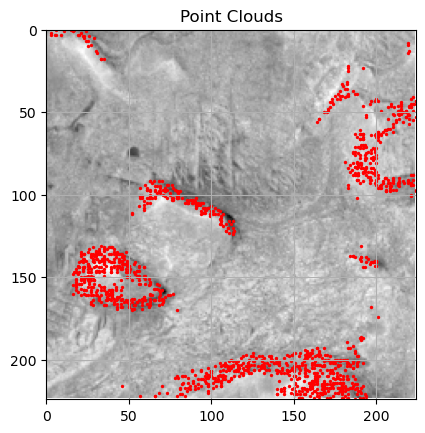
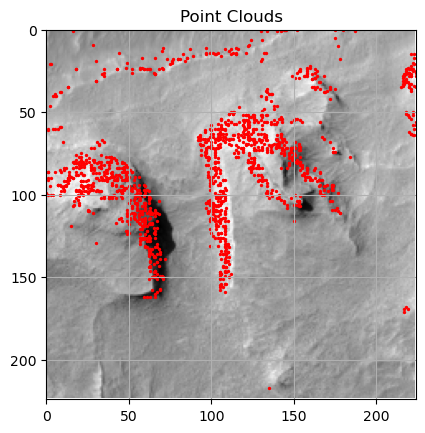
PKPD Results (Robustness Metric, yet to be done)

diff --git a/Engine/Anasthesia.py b/Engine/Anasthesia.py
@@ -111,8 +111,14 @@ class AnasthesiaPKPD:
         (dynA,dynB)=AnasthesiaPKPD.getDynamics()
         A=AnasthesiaPKPD.createMatrix(dynA,dynB,'.',0.01)
 
+        print(">> STATUS: Computing Reachable Sets . . .")
+        time_taken=time.time()
         rs=Split(A,Er,initialSet,T)
         (reachORS,reachRS)=rs.getReachableSetAllList()
+        time_taken=time.time()-time_taken
+        print("\tTime Taken: ",time_taken)
+        print(">> STATUS: Reachable Sets Computed!")
+        #exit(0)
 
         VisualizePKPD.vizC1C2(reachRS,reachORS)
 
@@ -177,7 +183,71 @@ class AnasthesiaPKPD:
 
         VisualizePKPD.vizCe(reachRS,reachORS)
 
+    def getCellOrder():
+        (A,B)=AnasthesiaPKPD.getDynamics()
+        A_club=AnasthesiaPKPD.createMatrix(A,B,'.',0.01)
+        print(">> STATUS: Applying Cell Ordering Algorithm . . .")
+        time_taken=time.time()
+        projMat=np.zeros(A_club.shape)
+        projMat[1][1]=1
+        projMat[0][0]=0
+        projMat[2][2]=0
+        A_club_proj=np.matmul(projMat,A_club)
+        cellOrder=OrdUnc(A_club_proj).getOrder()
+        time_taken=time.time()-time_taken
+        print("\tTime Taken: ",time_taken)
+        print(">> STATUS: Applying Cell Ordering Algorithm . . .")
+        print(cellOrder)
+
+    def getTopBotErrors():
+        '''
+        Based on the ouput we got from `self.getCellOrder()`,
+        some perturbation of the matrix were picked.
+        '''
+        p=2
+
+        Er_top={
+        (1,0): [1-(p/100),1+(p/100)],
+        (1,1): [1-(p/100),1+(p/100)]
+        }
+
+        Er_bot={
+        (2,0): [1-(p/100),1+(p/100)],
+        (2,2): [1-(p/100),1+(p/100)]
+        }
+
+        return Er_top,Er_bot
+
+    def getReachSetsTopBot():
+        '''
+        Based on Errors obtained from cell-ordering algorithm, we
+        compare the top and the bottom cells
+        '''
+        (Er_top,Er_bot)=AnasthesiaPKPD.getTopBotErrors()
+        C=[0,0,0,0,0]
+        V=np.array([
+        [1,0,0,0,0],
+        [0,1,0,0,0],
+        [0,0,1,0,0],
+        [0,0,0,1,0],
+        [0,0,0,0,1],
+        ])
+        P=[(2,4),(4,6),(4,6),(3,5),(0,10)]
+        initialSet=(C,V,P)
+        T=20
+
+        (dynA,dynB)=AnasthesiaPKPD.getDynamics()
+        A=AnasthesiaPKPD.createMatrix(dynA,dynB,'.',0.01)
+
+        rsTop=Split(A,Er_top,initialSet,T)
+        (reachORSTop,reachRSTop)=rsTop.getReachableSetAllList()
+
+        rsBot=Split(A,Er_bot,initialSet,T)
+        (reachORSBot,reachRSBot)=rsBot.getReachableSetAllList()
+
+        VisualizePKPD.vizComp(reachORSTop,reachORSBot)
 
 
-if True:
-    AnasthesiaPKPD.getReachSetC1C2()
+
+if False:
+    AnasthesiaPKPD.getCellOrder()

diff --git a/Engine/VisualizePKPD.py b/Engine/VisualizePKPD.py
@@ -449,3 +449,40 @@ class VisualizePKPD:
         #plt.legend()
         plt.savefig(PKPD_RESULTS+"/"+fname, dpi=100, bbox_inches='tight')
         plt.close()
+
+    def vizComp(RS_Top,RS_bot,fname="viz_compare"):
+        th1=1
+        th2=2
+
+        RS_XY_List=[]
+        ORS_XY_List=[]
+
+        plt.axes()
+        plt.autoscale(enable=True, axis='both', tight=False)
+        plt.xlabel("Time")
+        plt.ylabel("C1")
+        plt.xlim((-1,21))
+        plt.ylim((-2,12))
+
+        plt.plot([-4, 25], [0, 0], color='r', linestyle='--', linewidth=1)
+        plt.plot([-4, 25], [10, 10], color='r', linestyle='--', linewidth=1)
+        #plt.plot([-4, 12], [10, 10], color='r', linestyle='--', linewidth=1)
+        #plt.plot([0, 0], [-2, 12], color='r', linestyle='--', linewidth=1)
+        #plt.plot([10, 10], [-2, 12], color='r', linestyle='--', linewidth=1)
+
+        ct=0
+        for rs in RS_Top:
+            (X,Y)=VisualizePKPD.getPlotsLineFine(rs,th1,th2)
+            plt.plot([ct,ct],[min(X),max(X)],color='b', linestyle='-', linewidth=10)
+            ct=ct+1
+
+        ct=0
+        for rs in RS_bot:
+            (X,Y)=VisualizePKPD.getPlotsLineFine(rs,th1,th2)
+            plt.plot([ct,ct],[min(X),max(X)],color='cyan', linestyle='-', linewidth=4)
+            ct=ct+1
+
+
+        #plt.legend()
+        plt.savefig(PKPD_RESULTS+"/"+fname, dpi=100, bbox_inches='tight')
+        plt.close()

diff --git a/Engine/MarsRover.py b/Engine/MarsRover.py
@@ -78,7 +78,13 @@ class Rover:
             path_mpc.append((x,y))
         VisualizeMarsRover.vizMarsTrajMPC(self.obs,self.image,path,spline_path,path_mpc)
 
+        print(">> STATUS: Computing Reachable Sets . . .")
+        time_taken=time.time()
         rsList=BicycleModel.getReachSets(X, Y, yawList, V, D, A)
+        time_taken=time.time()-time_taken
+        print("\tTime Taken: ",time_taken)
+        print(">> STATUS: Reachable Sets Computed!")
+        #exit(0)
         VisualizeMarsRover.vizMarsTrajRS(self.obs,self.image,spline_path,path_mpc,path,rsList)
 
     def getReachSetsTopBot(self):
@@ -144,7 +150,12 @@ class Rover:
         v=0.1
         phi=0.1
         delta=0.1
+        print(">> STATUS: Computing Cell Order . . .")
+        time_taken=time.time()
         cellOrder=BicycleModel.getCellOrderBasedError(v,phi,delta)
+        time_taken=time.time()-time_taken
+        print("\tTime Taken: ",time_taken)
+        print(">> STATUS: Cell Order Computed!")
         return cellOrder
 
     def getErrors(self):
@@ -152,7 +163,7 @@ class Rover:
         Based on the ouput we got from `self.getCellOrder()`,
         some perturbation of the matrix were picked.
         '''
-        p=20
+        p=10
         Er_top_0={
         (0,4): [1-(p/100),1+(p/100)],
         (0,5): [1-(p/100),1+(p/100)],

diff --git a/Engine/VisualizeMars.py b/Engine/VisualizeMars.py
@@ -649,9 +649,6 @@ class VisualizeMarsRover:
                 else:
                     plt.plot(X,Y,'b.',alpha=0.05)
 
-        # point cloud obstacle
-        plt.scatter(obs[:,0], obs[:,1], c='red', s=2)
-
         for path_xy in mpc_path:
             path_x = path_xy[0]
             path_y = path_xy[1]
@@ -667,6 +664,9 @@ class VisualizeMarsRover:
         plt.plot(ref_path[0][0][0], ref_path[0][0][1], c='g', marker='o', markersize=7)
         # end
         plt.plot(ref_path[-1][-1][0], ref_path[-1][-1][1], c='y', marker='s', markersize=7)
+
+        # point cloud obstacle
+        plt.scatter(obs[:,0], obs[:,1], c='red', s=2)
 
         ax = fig.gca()
         ax.set_xticks(np.arange(xmin,xmax,50))

diff --git a/Engine/Parameters.py b/Engine/Parameters.py
@@ -4,7 +4,7 @@ PROJECT_ROOT='/home/bineet.local//MyResearch/ReachSetAll/Uncertain-Linear-System
 ROVER_RESULTS=PROJECT_ROOT+'/mars_rover_results/'
 MARS_POINT_CLOUD=PROJECT_ROOT+'/mars_data/mars_point_cloud.npz'
 PER_COVERAGE=100
-ENV_ID=1
+ENV_ID=0
 RS_STEPS=1
 
 PKPD_RESULTS=PROJECT_ROOT+'/pkpd_results/'

diff --git a/Engine/BicycleModel.py b/Engine/BicycleModel.py
@@ -92,7 +92,7 @@ class BicycleModel:
         B[3, 2] = - DT * v * delta / (WB * math.cos(delta) ** 2) # For C[3]
         B[4, 2] = 1
 
-        p=20
+        p=10
         Er={
         #(0,0): [1-(p/100),1+(p/100)],
         (0,2): [1-(p/100),1+(p/100)],

diff --git a/Engine/mars_rover_results/Mars Rover Timinings.md b/Engine/mars_rover_results/Mars Rover Timinings.md
@@ -1,0 +1,9 @@
+# Mars Rover Timinings 
+
+* Computing Reachable Sets: 2.3090827465057373
+* Cell Ordering Algorithm: 0.043404340744018555
+* Robustness Metric: <TODO>
+  * Amount of Perturbation in $\phi$: <TODO>
+  * Time Taken: <TODO>
+  * 
+

diff --git a/Engine/pkpd_results/PKPD Timinings.md b/Engine/pkpd_results/PKPD Timinings.md
@@ -1,0 +1,8 @@
+# PKPD Timinings 
+
+* Computing Reachable Sets: 0.31650733947753906
+* Cell Ordering Algorithm: 0.024121761322021484
+* Robustness Metric: <TODO>
+  * Amount of Perturbation in $weight$: <TODO>
+  * Time Taken: <TODO>
+
